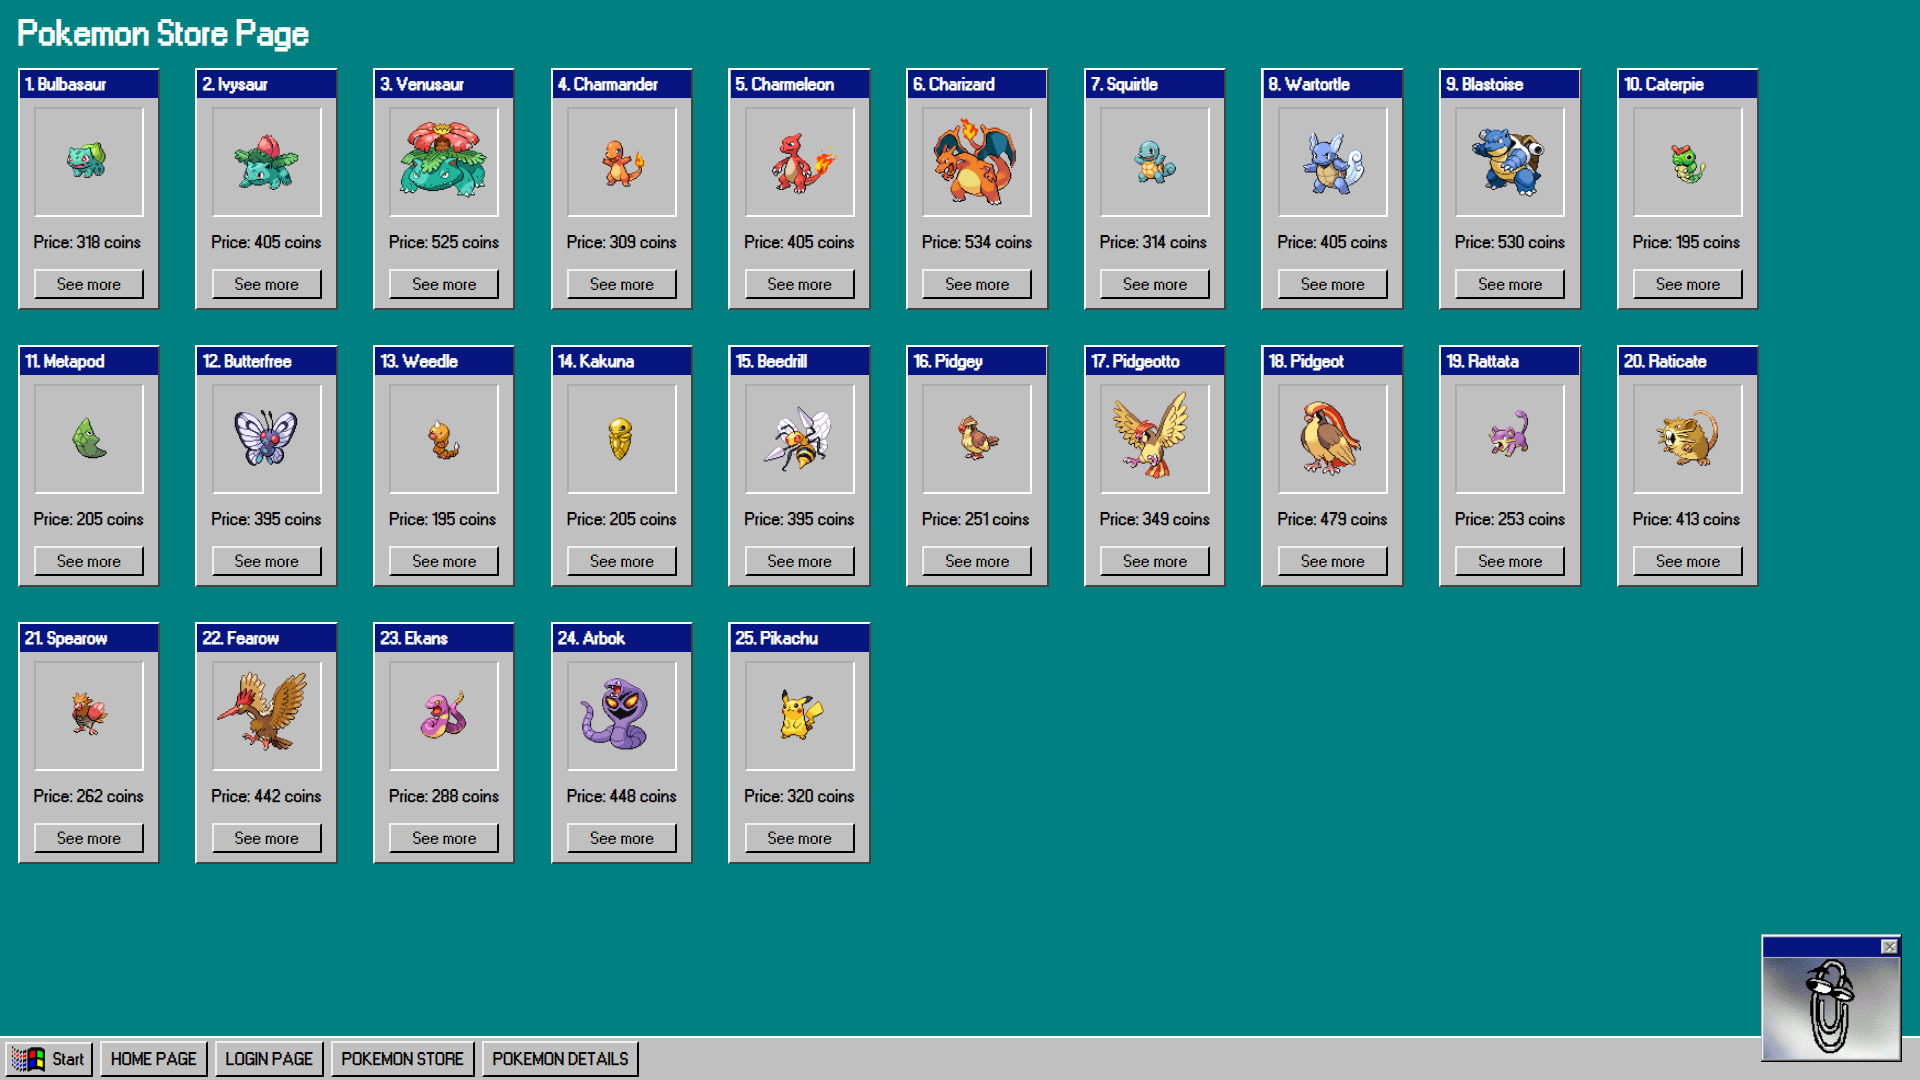
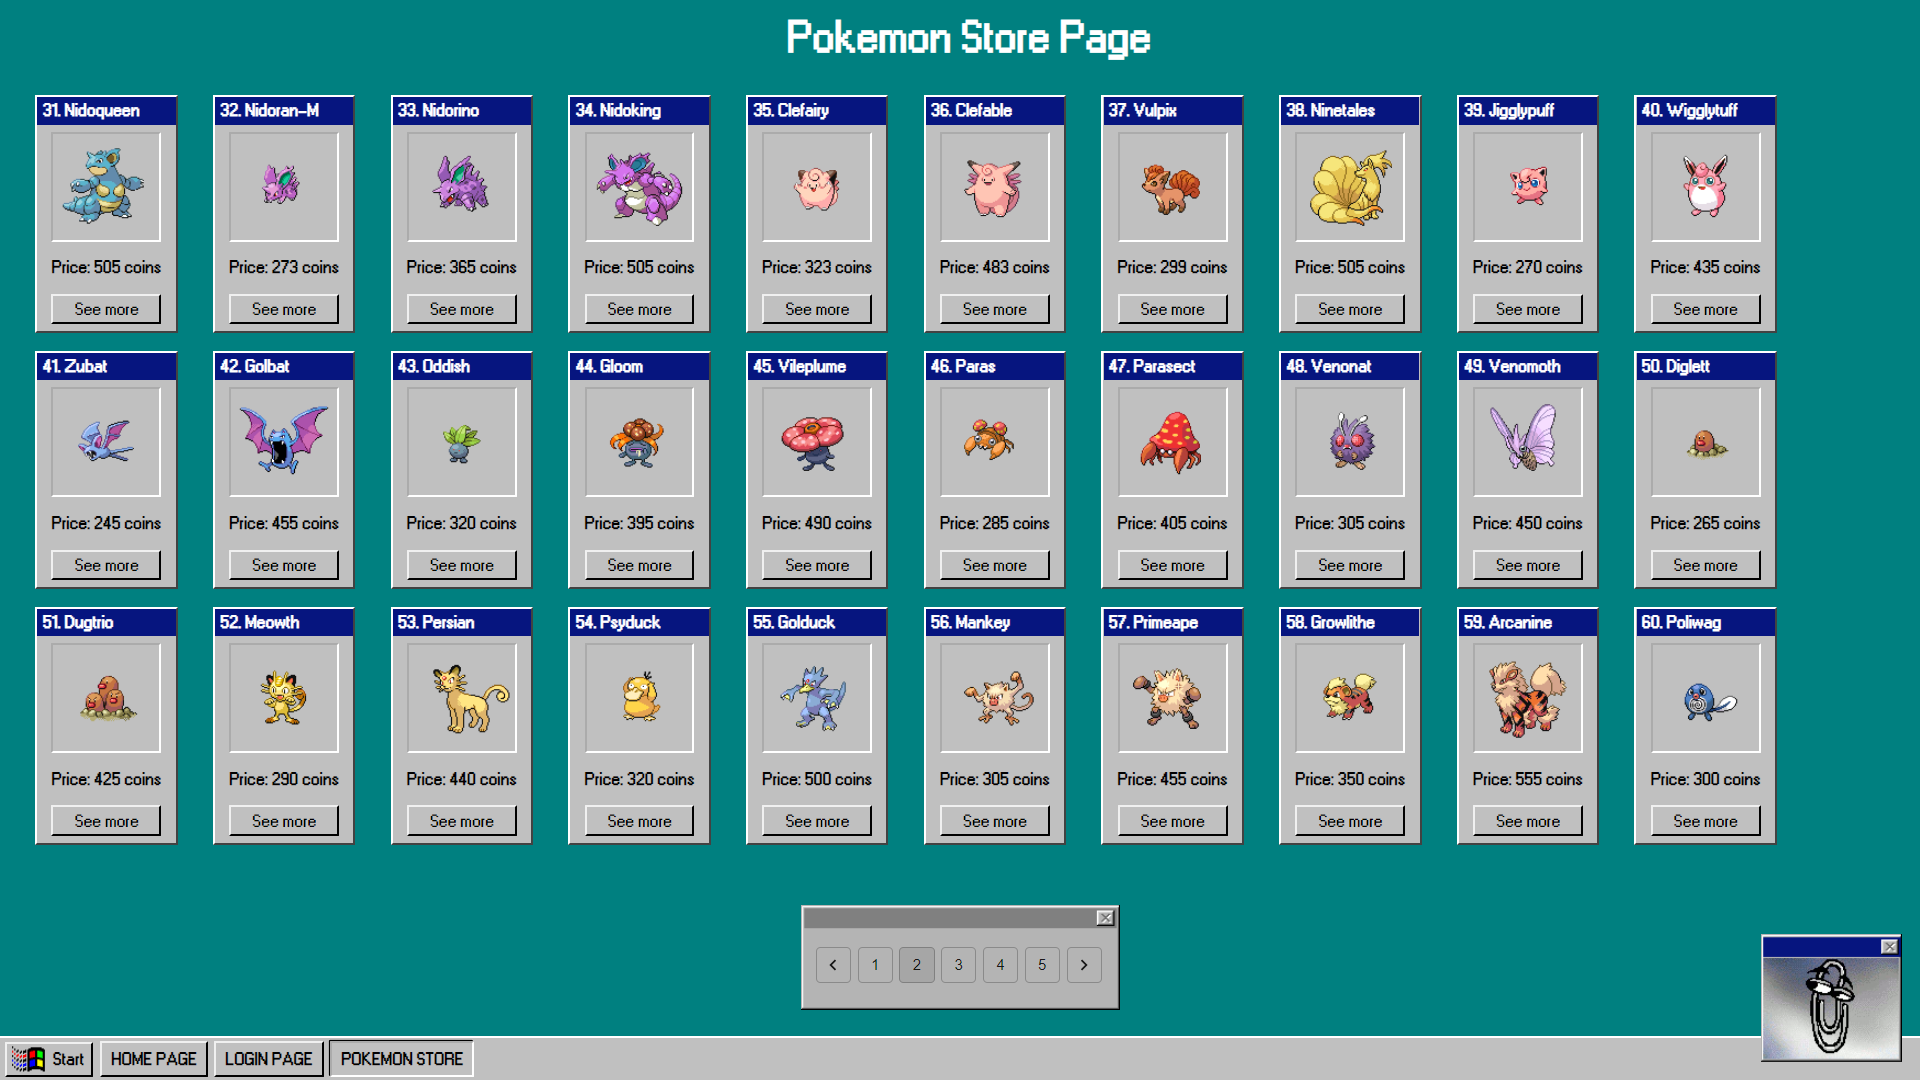
Update styles. Update README.md

diff --git a/src/pages/PokemonStore/containers/PokemonStorePageContainer.js b/src/pages/PokemonStore/containers/PokemonStorePageContainer.js
@@ -1,29 +1,36 @@
-import {useCallback, useEffect } from "react";
+import { useCallback, useEffect, useState } from "react";
 import { useDispatch, useSelector } from "react-redux";
 import { useHistory } from "react-router-dom";
 
 import PokemonStorePageLayout from "../components/PokemonStorePageLayout";
 import { GET_POKEMONS_REQUEST } from "../actions";
-import {FUCK_YOU, SIGN_OUT} from "../../Login/actions";
+import { SIGN_OUT } from "../../Login/actions";
 import { ROUTES } from "../../../routes/routeNames";
 
 const PokemonStorePageContainer = () => {
   const dispatch = useDispatch();
   const history = useHistory();
 
+  const [currentPage, setCurrentPage] = useState(1);
+
+  const handlePageChange = useCallback((data, page) => {
+    setCurrentPage(page);
+    console.log(page)
+  },[])
+
   const { pokemonsList, isLoading } = useSelector(state => state.pokemonsManager);
 
   useEffect(() => {
-    if (pokemonsList.length === 0) dispatch(GET_POKEMONS_REQUEST())
-  }, [dispatch, pokemonsList.length]);
+    dispatch(GET_POKEMONS_REQUEST(currentPage))
+  }, [dispatch, currentPage]);
 
   const handleGoToDetails = useCallback((id) => {
     history.push(`${ROUTES.POKEMON_STORE}/${id}`);
   }, [history]);
 
   useEffect(() => {
-    const onKeypress = (e) => {
-      if (e.key === '\u0011') {
+    const onKeypress = (event) => {
+      if (event.key === '\u0011') {
         dispatch(SIGN_OUT())
       }
     }
@@ -34,7 +41,13 @@ const PokemonStorePageContainer = () => {
     };
   }, [dispatch]);
 
-  return <PokemonStorePageLayout pokemonsList={pokemonsList} isLoading={isLoading} handleGoToDetails={handleGoToDetails} />;
+  return <PokemonStorePageLayout
+      pokemonsList={pokemonsList}
+      isLoading={isLoading}
+      handleGoToDetails={handleGoToDetails}
+      currentPage={currentPage}
+      handlePageChange={handlePageChange}
+  />;
 };
 
 export default PokemonStorePageContainer;

diff --git a/src/routes/Routes.js b/src/routes/Routes.js
@@ -1,7 +1,7 @@
-import {Switch, Route} from "react-router-dom";
+import { Switch, Route } from "react-router-dom";
 
 import PrivateRoute from "./PrivateRoute";
-import {ROUTES} from "./routeNames";
+import { ROUTES } from "./routeNames";
 import HomePageContainer from "../pages/Home/containers/HomePageContainer";
 import PokemonDetailsPageContainer from "../pages/PokemonDetails/containers/PokemonDetailsPageContainer";
 import PokemonStorePageContainer from "../pages/PokemonStore/containers/PokemonStorePageContainer";
@@ -10,10 +10,10 @@ import LoginPageContainer from "../pages/Login/containers/LoginPageContainer";
 const Routes = () => {
   return (
       <Switch>
-          <PrivateRoute exact
-                        path={ROUTES.HOME_PAGE}
-                        component={HomePageContainer}
-          />
+        <PrivateRoute exact
+                      path={ROUTES.HOME_PAGE}
+                      component={HomePageContainer}
+        />
         <Route exact
                path={ROUTES.LOGIN_PAGE}
                component={LoginPageContainer}

diff --git a/src/pages/PokemonStore/components/PokemonStorePageLayout/index.js b/src/pages/PokemonStore/components/PokemonStorePageLayout/index.js
@@ -1,9 +1,10 @@
 import React from "react";
 import { CircularProgress } from "@material-ui/core";
+import Pagination from '@material-ui/lab/Pagination';
 
 import styles from "./style.module.scss";
 
-const PokemonStorePageLayout = ({ pokemonsList, isLoading, handleGoToDetails }) => {
+const PokemonStorePageLayout = ({ pokemonsList, isLoading, handleGoToDetails, currentPage, handlePageChange }) => {
   return (
       <div>
         <h1>Pokemon Store Page</h1>
@@ -26,6 +27,17 @@ const PokemonStorePageLayout = ({ pokemonsList, isLoading, handleGoToDetails }) 
                     </div>
                   </div>
               )))}
+        </div>
+        <div className={styles.paginationWrapper}>
+          <div className={styles.pagination}>
+            <Pagination
+                onChange={handlePageChange}
+                page={currentPage}
+                count={5}
+                variant="outlined"
+                shape="rounded"
+            />
+          </div>
         </div>
       </div>
   )

diff --git a/src/pages/PokemonStore/components/PokemonStorePageLayout/style.module.scss b/src/pages/PokemonStore/components/PokemonStorePageLayout/style.module.scss
@@ -3,7 +3,7 @@
 .pokemonList {
   display: flex;
   flex-wrap: wrap;
-  padding-bottom: 3rem;
+  padding: 0 1rem;
 }
 
 .pokemonCard {
@@ -14,11 +14,11 @@
   border-bottom-color: $border-color;
   background: $silver;
 
-  margin: 1rem;
+  margin: 1rem 1rem 0 1rem;
 
   &Content {
     font-weight: 600;
-    padding: 0.5rem 0.8rem;
+    padding: 0.4rem 0.8rem;
   }
 
   &Title {
@@ -64,4 +64,25 @@
       background: url("../../../../assets/img/background.bmp");
     }
   }
+}
+
+.paginationWrapper {
+  position: fixed;
+  bottom: 0;
+  right: 0;
+  left: 0;
+
+  width: 290px;
+  height: 95px;
+
+  background-image: url('../../../../assets/img/pagination.png');
+
+  margin: 0 auto 4rem;
+
+}
+
+.pagination {
+  max-width: 268px;
+  padding-top: 2.4rem;
+  margin: 0 auto;
 }

diff --git a/src/pages/Login/components/LoginPageLayout/style.module.scss b/src/pages/Login/components/LoginPageLayout/style.module.scss
@@ -6,12 +6,6 @@
   margin: 1rem auto;
 }
 
-.authBrowser {
-  @media (max-width: 700px) {
-    display: none;
-  }
-}
-
 
 .loginForm {
   position: absolute;
@@ -23,11 +17,6 @@
   align-items: center;
 
   margin: -20.5rem auto;
-
-  @media (max-width: 700px) {
-    margin: 0;
-
-  }
 }
 
 .loginInput {
@@ -36,14 +25,6 @@
   background-color: $silver !important;
 
   margin: 1rem !important;
-
-  @media (max-width: 700px) {
-    border-width: 2px !important;
-    border-style: outset !important;
-    border-color: buttonface !important;
-    border-right-color: $border-color !important;
-    border-bottom-color: $border-color !important;
-  }
 }
 
 .loginButton {

diff --git a/src/pages/Login/sagas/loginSaga.js b/src/pages/Login/sagas/loginSaga.js
@@ -2,7 +2,6 @@ import { takeEvery, take, select } from "redux-saga/effects";
 import { REHYDRATE } from "redux-persist/es/constants";
 
 import { SIGN_IN_SUCCESS, SIGN_IN_FAIL } from "../actions";
-import { FUCK_YOU } from "../actions"
 import api from "../../../api/config";
 
 const authSelector = (state) => state.authorization;

diff --git a/src/pages/Login/sagas/logoutSaga.js b/src/pages/Login/sagas/logoutSaga.js
@@ -1,10 +1,9 @@
-import {takeEvery} from "redux-saga/effects";
+import { takeEvery } from "redux-saga/effects";
 
 import { SIGN_OUT } from "../actions";
 
 function signOutSaga(action) {
   localStorage.clear();
-
   window.location.reload();
 }
 

diff --git a/src/pages/PokemonStore/api/index.js b/src/pages/PokemonStore/api/index.js
@@ -1,3 +1,3 @@
 import api from "../../../api/config";
 
-export const getPokemons = () => api.get('/products');
+export const getPokemons = (pageNumber) => api.get(`/products?page=${pageNumber}&limit=30`);

diff --git a/src/styles/index.scss b/src/styles/index.scss
@@ -7,7 +7,9 @@ body {
 }
 
 h1 {
+  text-align: center;
   font-size: 2.5rem;
   font-weight: 600;
   padding: 1rem 0 0 1rem;
+  margin-bottom: 1rem;
 }

diff --git a/README.md b/README.md
@@ -19,9 +19,11 @@
 </p>
 
 ## About
-This is my IT SHATLE React module graduation work. Made with HTML, Sass(SCSS), JavaScript, React, Redux and Material-UI. You are welcome!
+Pokémon Online Store app is my IT SHATLE React module graduation work. Made with HTML, Sass(SCSS), JavaScript, React, Redux and Material-UI. You are welcome!
 
 ## Preview
+While using this app press `F11` key to enable Browser Full Screen Mode for a better user experience ✨
+
 <p align=center>
     <img alt="GIF" src="public/preview.png" width="1080px" />
 </p>
